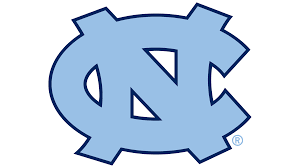
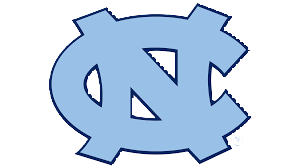
Fixed some aesthetic changes'

diff --git a/TechX-main/react-portfolio/src/components/Home/Logo/index.js b/TechX-main/react-portfolio/src/components/Home/Logo/index.js
@@ -1,29 +1,28 @@
 import { useEffect, useRef } from 'react'
+//import { TouchableOpacity,Text, Image, View, StyleSheet } from 'react-native'
 import gsap from 'gsap-trial'
 import DrawSVGPlugin from 'gsap-trial/DrawSVGPlugin'
 /*import LogoS from '../../../assets/images/logo-s.png'*/
+import Headshot from '../../../assets/images/AidanHeadshotCircle.png'
 import TechLogo from '../../../assets/images/TechXLogo.png'
 import UNCLogo from '../../../assets/images/UNCLogo.png'
 import './index.scss'
 
+
+
 const Logo = () => {
   const bgRef = useRef()
-  const outlineLogoRef = useRef()
   const solidLogoRef = useRef()
 
   useEffect(() => {
     gsap.registerPlugin(DrawSVGPlugin)
 
-    /*gsap
+    gsap
       .timeline()
       .to(bgRef.current, {
         duration: 1,
         opacity: 1,
       })
-      .from(outlineLogoRef.current, {
-        drawSVG: 0,
-        duration: 20,
-      })*/
 
     gsap.fromTo(
       solidLogoRef.current,
@@ -46,25 +45,6 @@ const Logo = () => {
         src={TechLogo}
         alt="JavaScript,  Developer"
       />
-
-      <svg
-        width="559pt"
-        height="897pt"
-        version="1.0"
-        viewBox="0 0 559 897"
-        xmlns="http://www.w3.org/2000/svg"
-      >
-        <g
-          className="svg-container"
-          transform="translate(0 457) scale(.1 -.1)"
-          fill="none"
-        >
-          <path
-            ref={outlineLogoRef}
-            d="m2930 4560c-344-16-623-85-915-228-231-114-406-241-600-436-61-60-145-137-188-169-432-325-715-757-806-1230-109-564 21-1117 384-1641 250-360 780-877 1547-1511 451-373 600-505 803-708 215-216 275-293 350-448 55-114 75-188 82-298 6-96-6-173-39-257-21-53-27-59-73-76-136-51-374-73-521-46-401 71-763 376-1088 916-21 35-43 63-50 63s-32-13-57-29c-74-48-229-141-233-141-3 0-54-31-113-68s-135-84-168-102c-33-19-67-39-77-45-9-5-56-34-105-63-48-29-153-94-233-143s-152-92-160-96c-26-12-144-86-180-114-19-15-137-88-262-164-130-78-228-143-228-151s30-70 66-137c207-379 396-640 644-887 219-218 401-350 665-480 247-122 484-196 775-241 172-27 628-38 819-19 636 61 1161 302 1561 716 47 48 128 120 181 160 402 304 684 722 804 1189 61 240 70 318 70 640 0 259-3 304-23 418-84 467-268 823-647 1257-192 218-401 409-1095 995-637 539-1034 894-1208 1081-152 163-223 311-223 465 0 43 2 83 5 88 20 32 266 41 394 15 322-65 649-312 972-731 39-51 70-83 82-83 10 0 283 234 615 528 328 290 684 605 792 700s197 181 199 191-38 62-100 131c-399 446-754 740-1106 918-314 159-659 255-962 268-63 2-135 6-160 7-25 2-110 0-190-4zm570-58c671-123 1188-450 1813-1144 53-60 97-112 96-115-1-12-411-367-423-367-6 0-20-13-31-28-11-16-164-156-340-312l-320-283-18 24c-239 311-459 523-675 651-99 59-246 117-344 137-112 23-311 21-416-4-200-48-373-182-450-349-32-70-34-82-34-176 0-179 64-318 229-494 182-195 573-545 1213-1086 693-585 897-771 1085-985 379-434 563-790 647-1257 20-113 23-161 23-398 0-300-10-384-70-620-97-379-302-729-586-1e3 -105-100-185-166-191-159-9 8-63-29-92-63-48-57-291-191-482-266-202-79-481-143-735-167-188-18-606-8-779 19-290 45-528 119-775 241-385 190-680 444-972 836-118 159-345 527-332 538 46 36 763 456 773 453 16-7 36 11 30 27-3 9 131 99 212 142 28 15 203 122 231 141 21 14 23 13 45-23 225-384 515-687 794-829 164-84 300-115 503-115 125 0 235 15 340 46 17 5 22 4 17-4-13-22 24-13 47 11 12 13 53 40 91 61 193 105 351 279 418 462 18 49 21 82 22 199 1 165-11 222-79 363-75 156-135 232-355 453-208 208-355 338-808 713-766 633-1288 1142-1537 1501-305 440-449 908-415 1355 24 318 109 596 262 848 74 123 192 277 231 301 18 11 43 38 56 61 24 42 155 164 277 255 293 221 660 367 1050 419 167 23 601 15 754-13zm-2357-938c-321-485-398-1123-203-1693 70-208 178-417 315-615 250-360 780-877 1547-1511 451-373 600-505 803-708 215-216 275-292 350-448 65-136 80-200 79-343-1-134-15-186-80-302-60-108-201-244-326-317-53-31-55-28-31 35 12 33 17 79 17 184 1 165-12 222-79 363-75 156-135 232-355 453-208 208-355 338-808 713-766 633-1288 1142-1537 1501-305 440-449 908-415 1355 34 454 190 817 504 1174 58 66 264 256 277 256 4 0-23-44-58-97zm2095-529c212-43 445-176 659-378 129-121 368-406 360-429-2-6-95-93-208-193l-204-182-18 24c-105 137-202 250-307 355-191 192-351 304-540 380-145 58-234 72-415 67l-153-4 24 47c28 57 121 159 181 200 71 49 158 88 240 108 99 25 274 27 381 5zm-2672-5486c233-416 511-757 812-997 275-219 616-385 967-472 225-55 364-71 669-76 307-6 445 3 666 43 255 46 474 119 698 233l117 60-75-71c-377-356-881-572-1471-628-188-18-606-8-779 19-465 72-868 244-1222 521-180 141-402 382-575 625-130 183-342 550-326 566 11 11 446 277 454 278 4 1 33-45 65-101z"
-          />
-        </g>
-      </svg>
     </div>
   )
 }

diff --git a/TechX-main/react-portfolio/src/components/Home/Logo/index.scss b/TechX-main/react-portfolio/src/components/Home/Logo/index.scss
@@ -11,10 +11,15 @@
     margin: auto;
   
     svg {
+      -moz-transform: scale(-1, 1);
+      -webkit-transform: scale(-1, 1);
+      -o-transform: scale(-1, 1);
+      -ms-transform: scale(-1, 1);
+      transform: scale(-1, 1);
       width: 100%;
       height: auto;
       bottom: 0;
-      transform: rotateZ(30deg) !important;
+      transform: rotateZ(180deg) !important;
     }
   
     .solid-logo {

diff --git a/TechX-main/react-portfolio/src/components/Contact/index.js b/TechX-main/react-portfolio/src/components/Contact/index.js
@@ -20,7 +20,7 @@ const Contact = () => {
     e.preventDefault()
 
     emailjs
-      .sendForm('gmail', 'template_YeJhZkgb', form.current, 'your-token')
+      .sendForm('service_81b0cmn', 'template_YeJhZkgb', form.current, 'your-token')
       .then(
         () => {
           alert('Message successfully sent!')

diff --git a/TechX-main/react-portfolio/src/components/Sidebar/index.scss b/TechX-main/react-portfolio/src/components/Sidebar/index.scss
@@ -14,9 +14,9 @@
       img {
         display: block;
         margin: 8px auto;
-        width: 24px;
+        width: 60px;
         height: auto;
-  
+
         &.sub-logo {
           width: 50px;
         }
